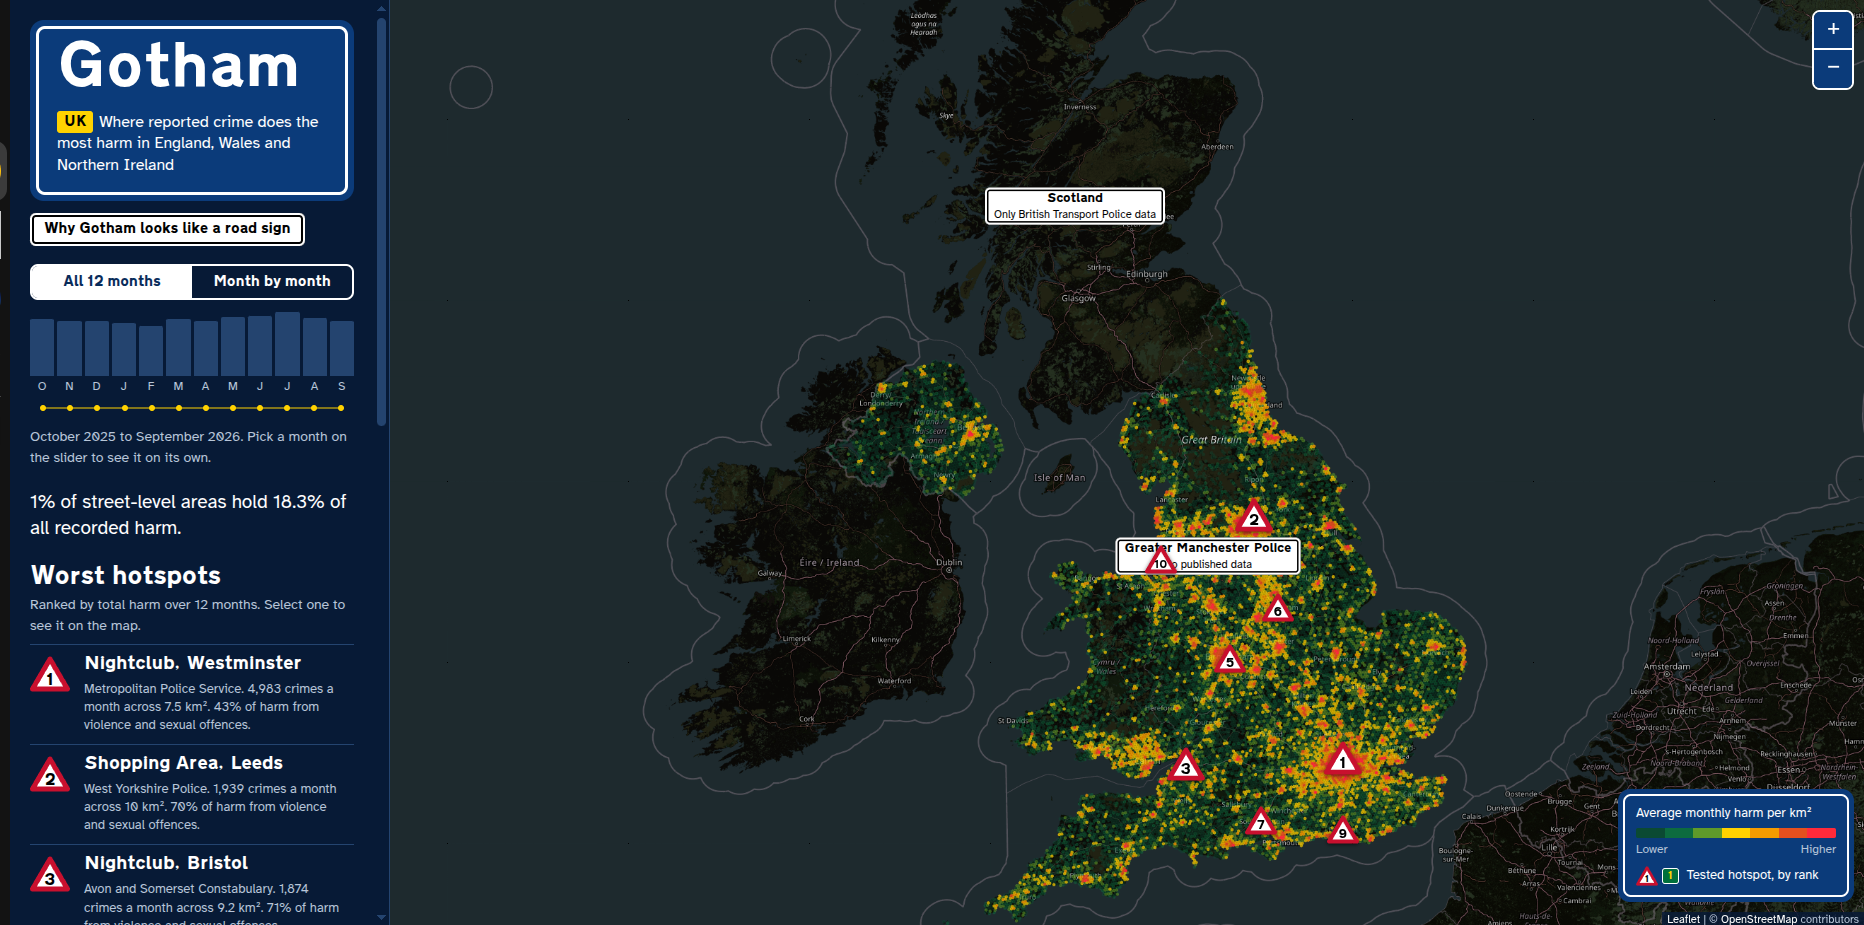
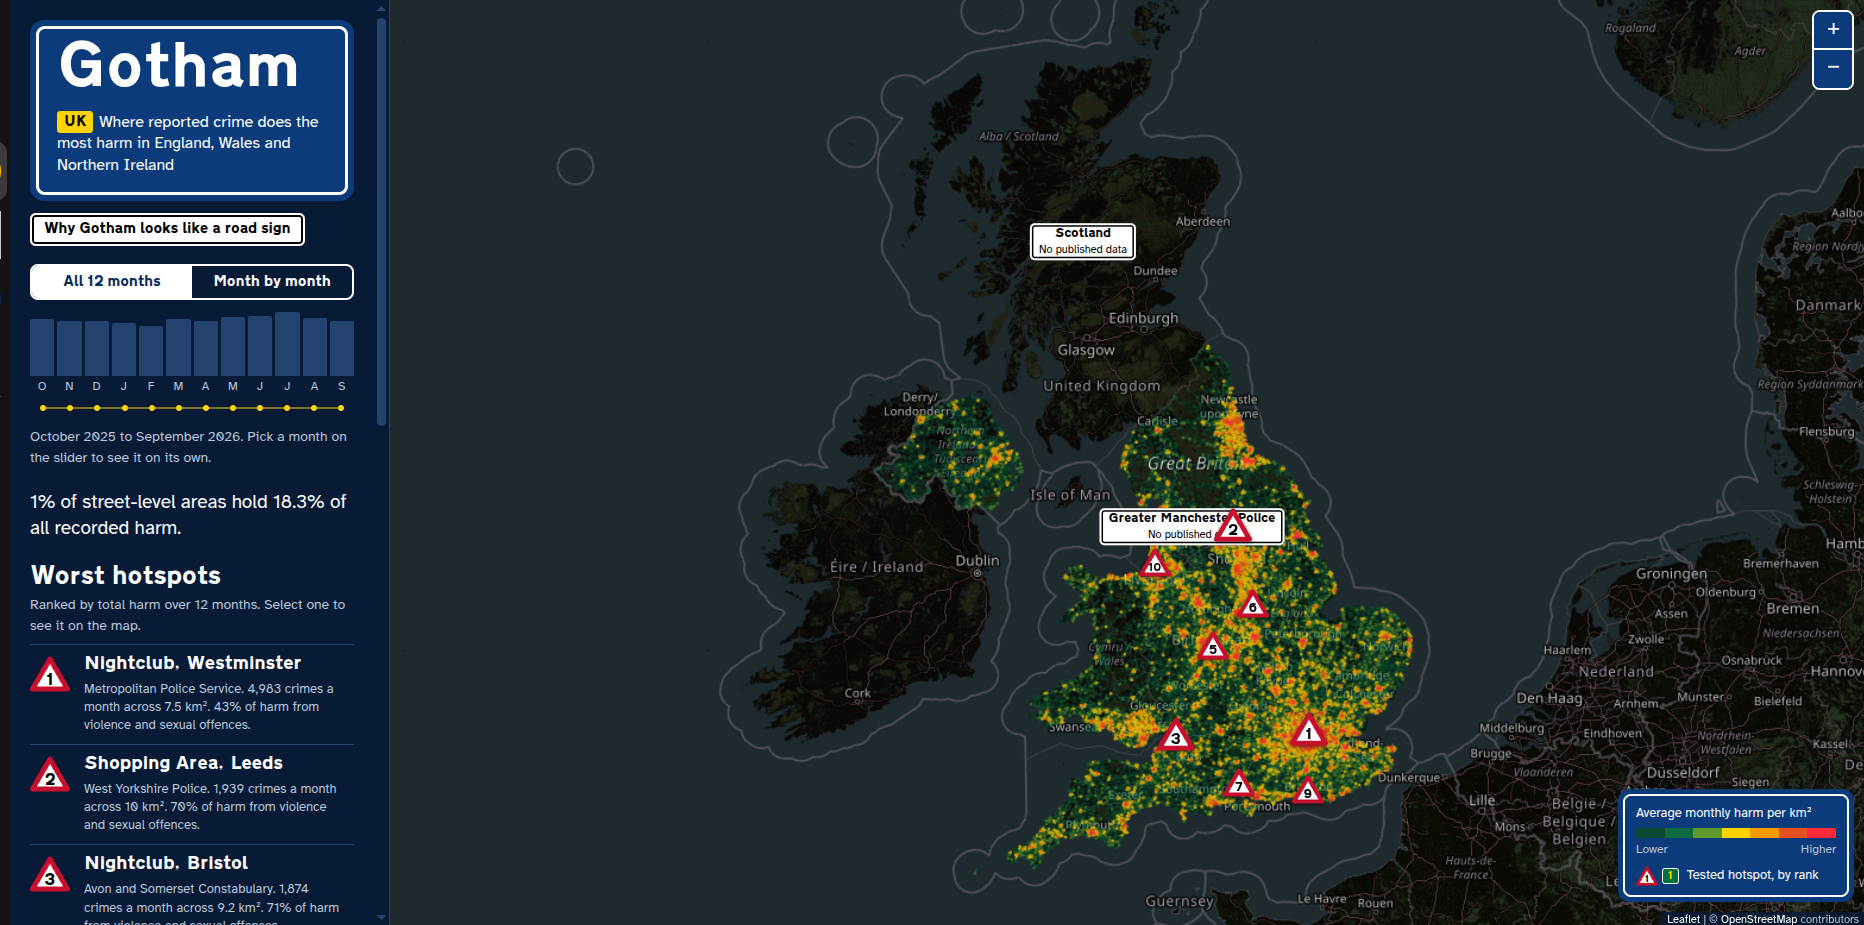
Move Greater Manchester note out to sea with arrow; remove old scraper

Changed region(s): [[0.3423, 0.0, 1.0, 1.0], [0.8401, 0.0, 0.9646, 0.1211], [0.9957, 0.0, 1.0, 0.0303]]

diff --git a/site/app.js b/site/app.js
@@ -353,10 +353,14 @@ async function main() {
 
   // coverage notes, styled as small white local-road signs
   const notes = [[56.6, -4.3, 'Scotland', 'No published data']];
-  for (const f of state.meta.coverage.missing) if (f.at) notes.push([f.at[0], f.at[1], f.name, 'No published data']);
-  const noteGroup = L.layerGroup(notes.map(([lat, lng, title, body]) => L.marker([lat, lng], {
+  for (const f of state.meta.coverage.missing) if (f.at) notes.push([f.at[0], f.at[1], f.name, 'No published data', f.at[2]]);
+  const ARROW = '<svg viewBox="0 0 24 24" width="18" height="18" aria-hidden="true"><path d="M3 12h14M12 5l7 7-7 7" fill="none" stroke="currentColor" stroke-width="3.2" stroke-linecap="round" stroke-linejoin="round"/></svg>';
+  const noteGroup = L.layerGroup(notes.map(([lat, lng, title, body, side]) => L.marker([lat, lng], {
     interactive: false, keyboard: false,
-    icon: L.divIcon({ className: 'map-note', iconSize: null, html: `<div><strong>${escapeHtml(title)}</strong><span>${escapeHtml(body)}</span></div>` }),
+    icon: L.divIcon({
+      className: side === 'east' ? 'map-note point-east' : 'map-note', iconSize: null,
+      html: `<div><p><strong>${escapeHtml(title)}</strong><span>${escapeHtml(body)}</span></p>${side === 'east' ? ARROW : ''}</div>`,
+    }),
   })));
 
   let shownZones = null;

diff --git a/site/app.css b/site/app.css
@@ -214,12 +214,14 @@ h3 { font: 400 18px/1.2 var(--sign); margin: 18px 0 4px; }
 .rank-plate.selected span { background: var(--route); color: var(--ink); border-color: var(--ink); box-shadow: 0 0 0 2px var(--route), 0 1px 6px rgba(0, 0, 0, 0.7); }
 
 .map-note div {
-  /* sits just above its anchor point, so it doesn't cover hotspot triangles centred on the area */
-  position: absolute; transform: translate(-50%, calc(-100% - 6px));
-  display: grid; justify-items: center; white-space: nowrap; pointer-events: none;
+  position: absolute; transform: translate(-50%, -50%);
+  display: flex; align-items: center; gap: 8px; white-space: nowrap; pointer-events: none;
   padding: 4px 9px; background: var(--white); color: var(--ink); border-radius: 5px;
   box-shadow: inset 0 0 0 2px var(--white), inset 0 0 0 3.5px var(--ink);
 }
+.map-note p { display: grid; justify-items: center; margin: 0; }
+/* out at sea, right edge on the anchor, arrow pointing at the area */
+.map-note.point-east div { transform: translate(-100%, -50%); }
 .map-note strong { font: 400 13px/1.2 var(--sign); }
 .map-note span { font-size: 11px; line-height: 1.2; }
 

diff --git a/pipeline/config.py b/pipeline/config.py
@@ -95,5 +95,7 @@ KNOWN_FORCES = {
 
 # Where to place an on-map note when a force has no data. lat, lng.
 COVERAGE_ANCHORS = {
-    "greater-manchester": (53.58, -2.30),  # north of the centre, clear of nearby triangles
+    # (lat, lng, side): where the note sits on the map. "east" puts it out at sea,
+    # with an arrow pointing east to the area, so it never covers hotspot triangles.
+    "greater-manchester": (53.75, -3.55, "east"),
 }

diff --git a/README.md b/README.md
@@ -33,13 +33,13 @@ The site is fully static (HTML, CSS, JavaScript and JSON files). It has no serve
 ## Features
 
 - **National view:** 1.6 km hexagons coloured by average monthly harm per km².
-- **Street view:** zoom in and the map switches to 400 m hexagons, loaded only for the area you're looking at.
+- **Street view:** in the 12-month view, zoom in and the map switches to 400 m hexagons, loaded only for the area you're looking at.
 - **Fast:** built on Leaflet. Hexagons are drawn once per map tile, so panning just moves images around.
 - **Tested hotspots:** marked with numbered warning triangles and outlined. Each passed a statistical test (Getis-Ord Gi\*), not just a visual threshold.
 - **Readable at street level:** zoomed in, hexagons fade to a soft tint so street names stay visible.
 - **Ranked list:** the worst hotspots, named by their most common street and area, from the top 10 up to 30. Select one to fly to it on the map.
-- **Two views:** *All 12 months* ranks hotspots over the whole year. *Month by month* ranks them for each single month, with a slider you drag through the year, so you can see whether hotspots move.
-- **Area details:** click any hexagon to see its harm, crime count, top crime types and a 12-month trend.
+- **Two views:** *All 12 months* ranks hotspots over the whole year. *Month by month* ranks them for each single month, with a slider you drag through the year, so you can see whether hotspots move. Single months are shown with the 1.6 km hexagons at every zoom, but their hotspot outlines are still tested on 400 m cells.
+- **Area details:** click any hexagon to see its harm and whether it is a tested hotspot. At street level in the 12-month view, you also get its crime count, top crime types and a 12-month trend.
 - **Honest about gaps:** forces that publish no data are labelled on the map instead of looking crime-free.
 - **Works on phones:** on small screens the side panel becomes a bottom sheet.
 - **Accessible:** keyboard controls for the map, visible focus, and reduced-motion support.
@@ -140,7 +140,6 @@ gotham/
 │   ├── vendor/leaflet/  # Leaflet 1.9.4, self-hosted
 │   └── data/            # generated by the pipeline, not committed
 ├── tests/               # pytest suite, including an end-to-end run on synthetic data
-├── legacy/fetching/     # first prototype's API scraper, kept for history; not used by the pipeline
 ├── screenshots/         # README screenshots
 ├── .github/workflows/deploy.yml
 └── requirements.txt
